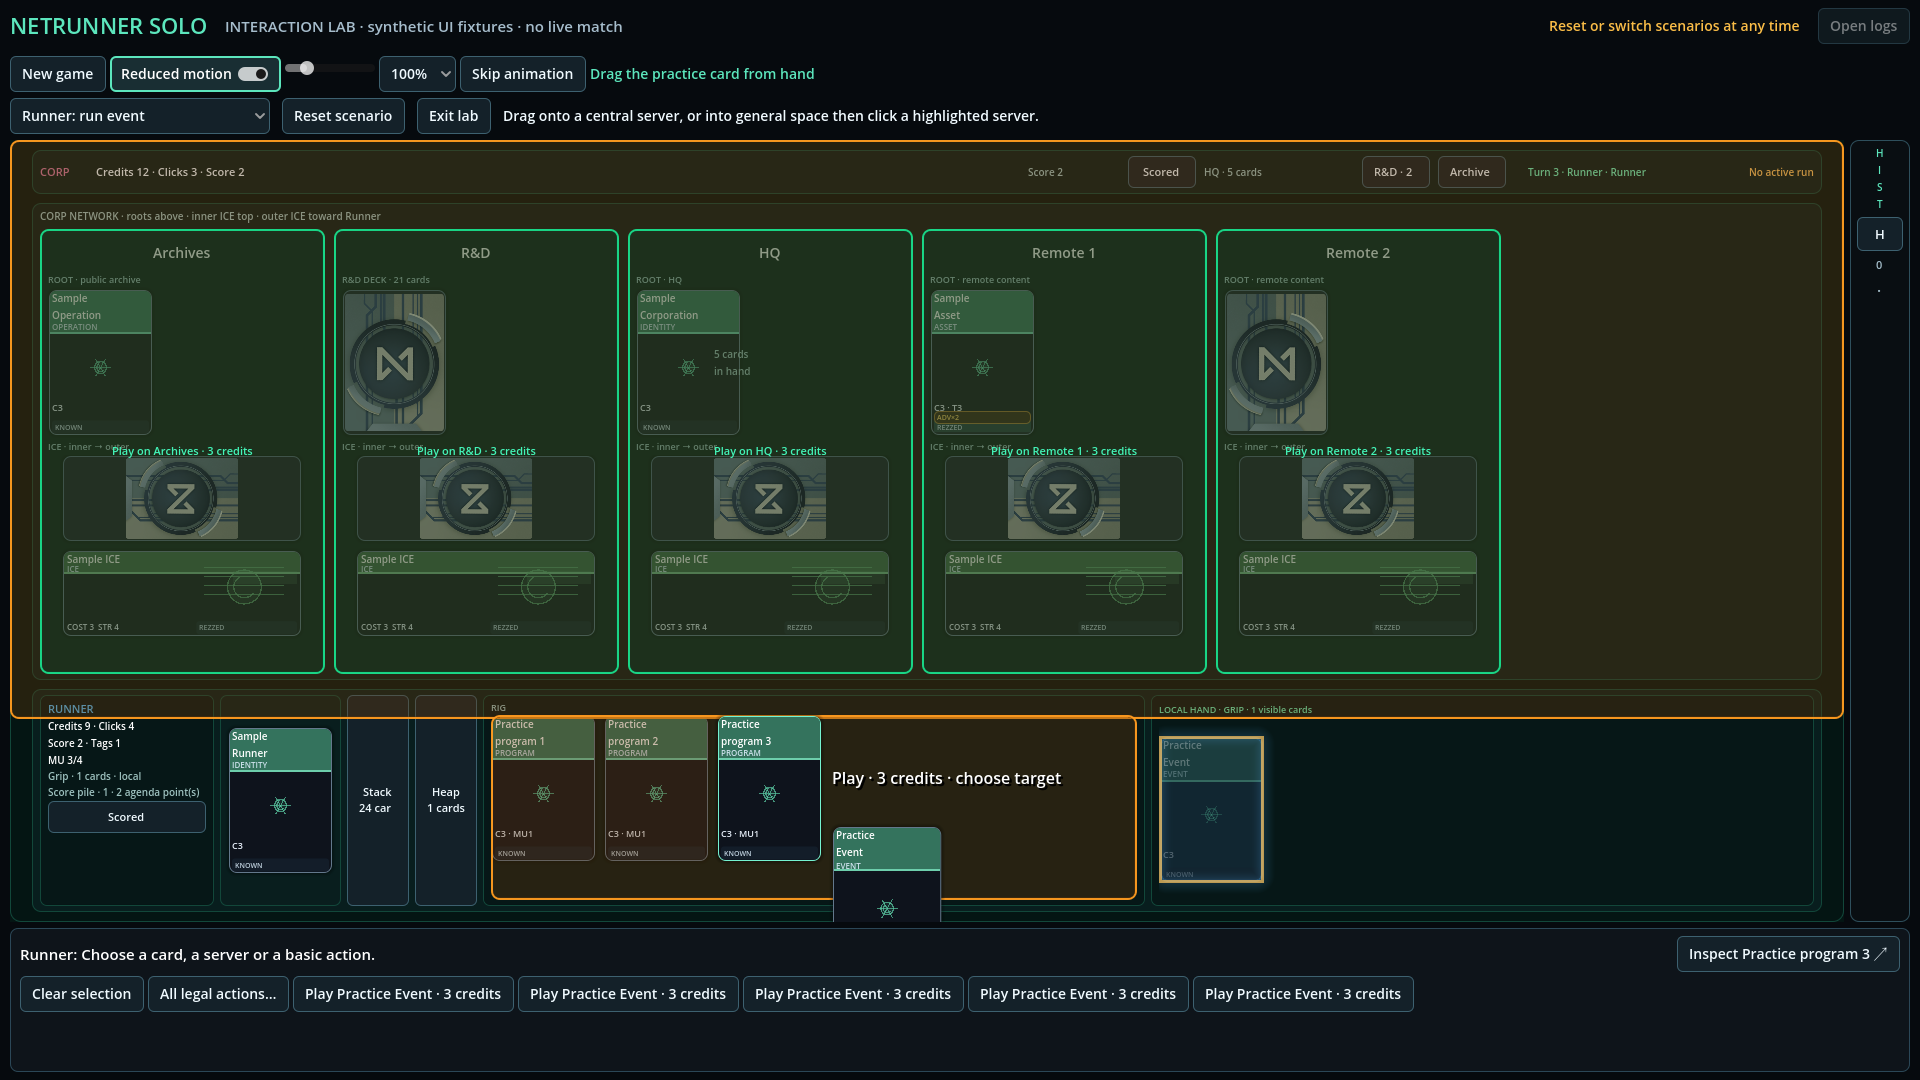
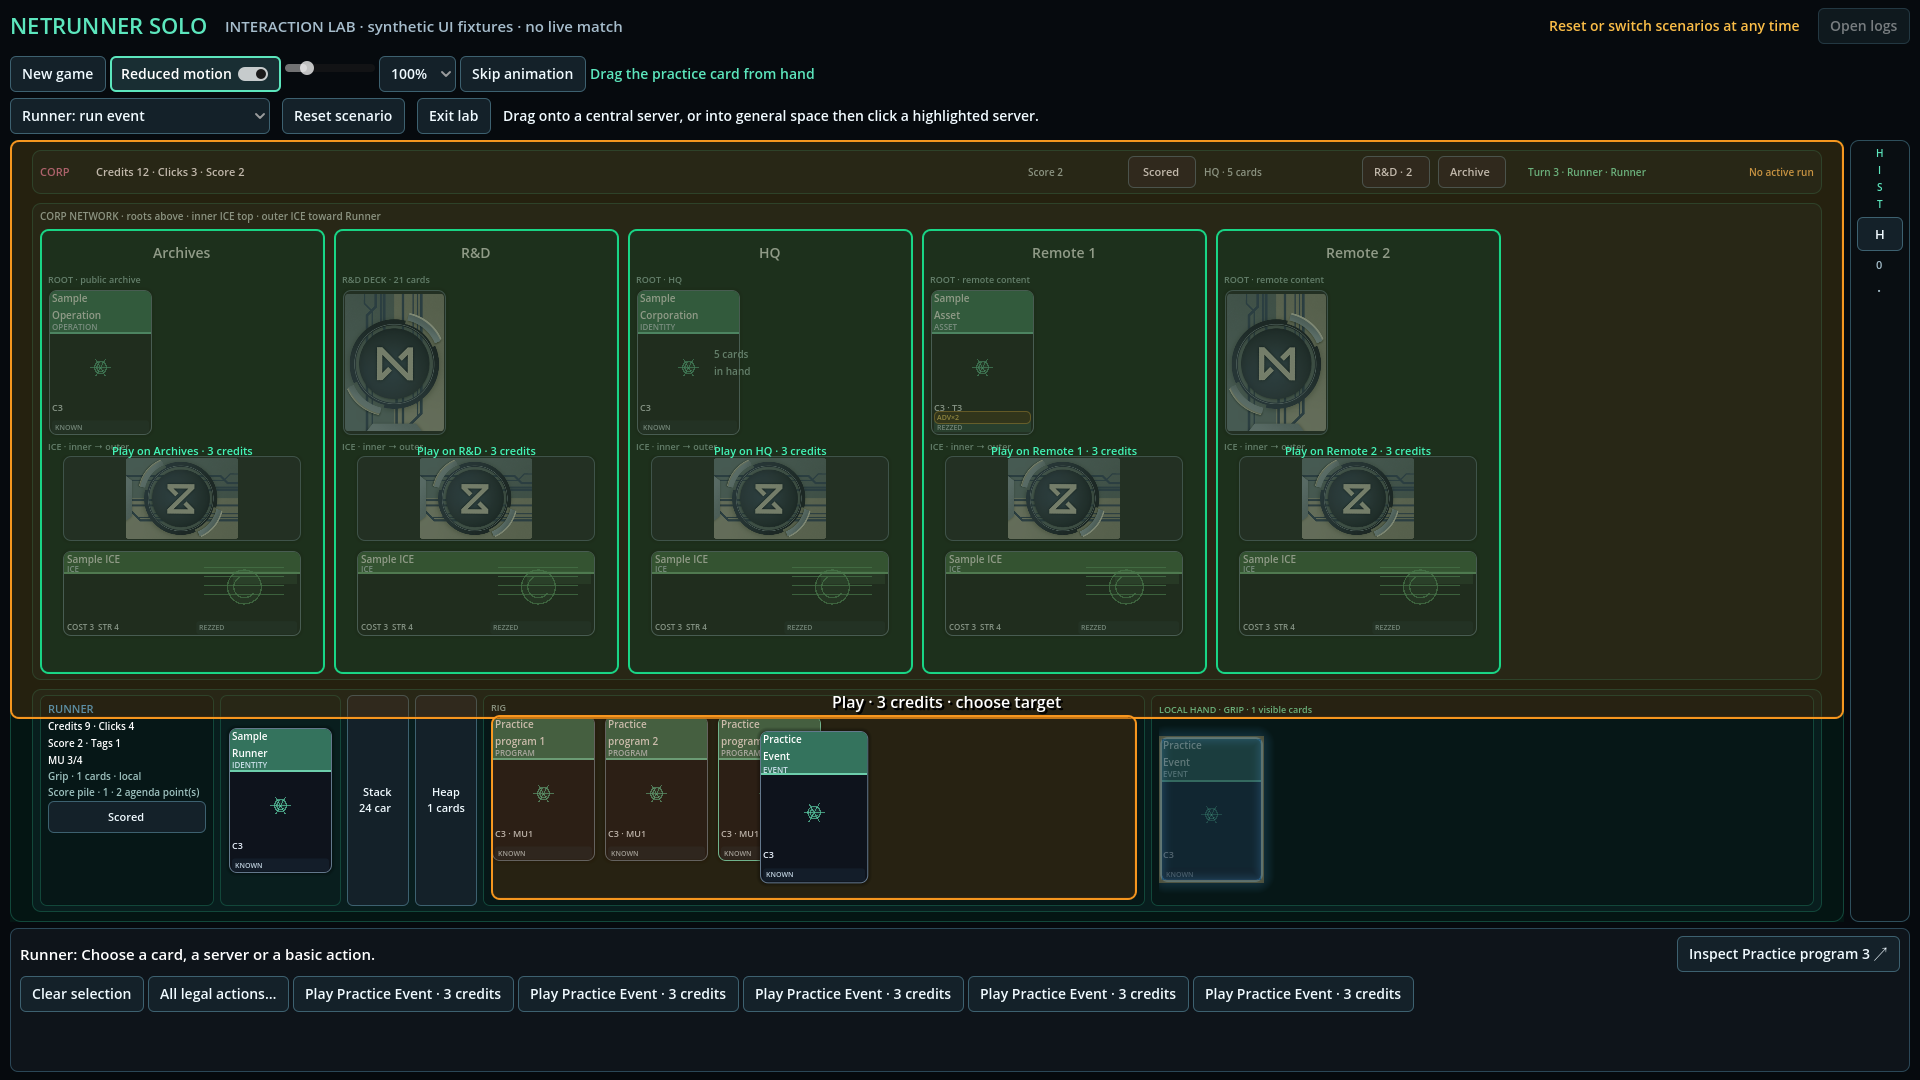
fix: center dragged cards and smooth pointer following

Changed region(s): [[0.375, 0.6417, 0.5625, 0.8556]]

diff --git a/src/Netrunner.Godot/scenes/Main.InteractionSmoke.cs b/src/Netrunner.Godot/scenes/Main.InteractionSmoke.cs
@@ -32,6 +32,8 @@ public partial class Main
 					LabButton(start, true);
 					await LabPointer(start + new Vector2(0, -40));
 					RequireInteraction(_boardDrag!.IsDragging, $"Drag did not start for scenario {scenario}.");
+					RequireInteraction(_boardDrag.GetNode<TableCardControl>("DragPreview").GetGlobalRect().GetCenter()
+						.DistanceTo(start + new Vector2(0, -40)) < 0.1f, "Drag preview is not centered on the pointer.");
 					GetViewport().PushInput(new InputEventKey { Keycode = Key.Escape, Pressed = true });
 					LabButton(start, false);
 					await TableFrames(2);
@@ -139,7 +141,8 @@ public partial class Main
 			await TableFrames(3);
 			RequireInteraction(_labSubmissionCount == 1 && _currentSnapshot!.View.RunnerRig.Any(c => c.HostCardId == "card:hidden-host"),
 				"Drop onto an exposed face-down ICE position failed.");
-			GD.Print("M411_INTERACTION PASS scenarios=15 resolutions=2 drag=true cancel=true stale=true choices=true menu_fallback=true hidden_host=true focus_loss=true invalid_drop=true");
+			await CheckDragFollowing();
+			GD.Print("M411_INTERACTION PASS scenarios=15 resolutions=2 drag=true cancel=true stale=true choices=true menu_fallback=true hidden_host=true focus_loss=true invalid_drop=true centered=true smooth_follow=true");
 			GetTree().Quit();
 		}
 		catch (Exception error)
@@ -147,6 +150,59 @@ public partial class Main
 			GD.PrintErr($"M411_INTERACTION FAIL {error}");
 			GetTree().Quit(1);
 		}
+	}
+
+	private async Task CheckDragFollowing()
+	{
+		_labScenario = 0;
+		ResetInteractionLab();
+		await TableFrames(3);
+		Vector2 start = _gameTable.VisibleCards["lab-hand"].GetGlobalRect().GetCenter();
+		Vector2 parked = start + new Vector2(0, -40);
+		Vector2 target = parked + new Vector2(-180, -120);
+		await LabPointer(start); LabButton(start, true); await LabPointer(parked);
+		BoardDragController drag = _boardDrag!;
+		TableCardControl preview = drag.GetNode<TableCardControl>("DragPreview");
+		float savedSmoothing = drag.Appearance.FollowSmoothing;
+		drag.SetProcess(false);
+		try
+		{
+			Vector2? firstResult = null;
+			foreach (int fps in new[] { 60, 120 })
+			{
+				drag.ReducedMotion = true;
+				Move(parked); drag._Process(1.0 / fps);
+				RequireInteraction(preview.GetGlobalRect().GetCenter().DistanceTo(parked) < 0.1f, "Reduced motion did not center immediately.");
+				drag.ReducedMotion = false;
+				Move(target); drag._Process(1.0 / fps);
+				Vector2 center = preview.GetGlobalRect().GetCenter();
+				RequireInteraction(center.DistanceTo(parked) > 1 && center.DistanceTo(target) > 1
+					&& center.DistanceTo(target) < parked.DistanceTo(target), "Following jumped or moved away from the pointer.");
+				for (int step = 1; step < fps / 10; step++) drag._Process(1.0 / fps);
+				center = preview.GetGlobalRect().GetCenter();
+				RequireInteraction(center.DistanceTo(target) < 25, "Following is too slow to catch the pointer.");
+				if (firstResult is { } previous)
+					RequireInteraction(center.DistanceTo(previous) < 0.1f, "Following depends on frame rate.");
+				firstResult = center;
+			}
+			drag.Appearance.FollowSmoothing = 0;
+			Move(parked); drag._Process(1.0 / 60);
+			RequireInteraction(preview.GetGlobalRect().GetCenter().DistanceTo(parked) < 0.1f, "Zero smoothing did not track immediately.");
+			drag.Appearance.FollowSmoothing = savedSmoothing;
+			Move(target);
+			// Release before the next preview frame: the pointer, not the lagging
+			// card image, must determine where the action is dropped.
+			LabButton(target, false);
+			RequireInteraction(_labSubmissionCount == 1, "Smooth following changed drop hit testing.");
+		}
+		finally
+		{
+			drag.Appearance.FollowSmoothing = savedSmoothing;
+			drag.ReducedMotion = _reducedMotion.ButtonPressed;
+			drag.Cancel("smoke-cleanup", false);
+			drag.SetProcess(true);
+		}
+		void Move(Vector2 point) => GetViewport().PushInput(new InputEventMouseMotion { Position = point, GlobalPosition = point });
 	}
 
 	private async Task LabPointer(Vector2 point)

diff --git a/src/Netrunner.Godot/scenes/BoardDragController.cs b/src/Netrunner.Godot/scenes/BoardDragController.cs
@@ -136,14 +136,21 @@ public partial class BoardDragController : Control
 			Cancel("unavailable", false);
 		if (!IsDragging) return;
 		Board.ScrollDragEdges(_pointer, delta, Appearance.EdgeWidth, Appearance.ScrollSpeed);
-		RefreshGeometry();
+		RefreshGeometry(delta);
 	}
 
-	private void RefreshGeometry()
+	private void RefreshGeometry(double delta = 0)
 	{
 		if (_preview is null) return;
 		Vector2 pointer = _pointer;
-		_preview.GlobalPosition = pointer + new Vector2(18, 18);
+		Vector2 target = pointer - _preview.GetGlobalRect().Size * 0.5f;
+		// Exponential following feels the same at different frame rates. Start
+		// centered immediately; only subsequent pointer movement is smoothed.
+		float weight = ReducedMotion || Appearance.FollowSmoothing <= 0 || delta <= 0
+			? 1f : 1f - Mathf.Exp(-(float)delta / Appearance.FollowSmoothing);
+		_preview.GlobalPosition = _preview.GlobalPosition.Lerp(target, weight);
+		if (_preview.GlobalPosition.DistanceSquaredTo(target) < 0.01f)
+			_preview.GlobalPosition = target;
 		var hovered = HitDestination(pointer);
 		foreach (var (destination, panel, geometry) in _zones)
 		{
@@ -161,7 +168,7 @@ public partial class BoardDragController : Control
 		}
 		_hint.Text = hovered is null ? "Release here to return to hand · Esc cancels" : DestinationLabel(hovered);
 		_hint.GlobalPosition = new Vector2(Math.Clamp(pointer.X + 18, GlobalPosition.X, Math.Max(GlobalPosition.X, GetGlobalRect().End.X - 380)),
-			Math.Clamp(pointer.Y - 42, GlobalPosition.Y, Math.Max(GlobalPosition.Y, GetGlobalRect().End.Y - 40)));
+			Math.Clamp(target.Y - 40, GlobalPosition.Y, Math.Max(GlobalPosition.Y, GetGlobalRect().End.Y - 40)));
 	}
 
 	private BoardInteractionDestination? HitDestination(Vector2 point) => _zones

diff --git a/src/Netrunner.Godot/resources/DragAppearance.cs b/src/Netrunner.Godot/resources/DragAppearance.cs
@@ -14,6 +14,7 @@ public partial class DragAppearance : Resource
 {
 	private float _dragThreshold = 8.0f;
 	private float _previewScale = 1.05f;
+	private float _followSmoothing = 0.04f;
 	private float _returnDuration = 0.16f;
 	private float _edgeWidth = 36.0f;
 	private float _scrollSpeed = 600.0f;
@@ -35,6 +36,14 @@ public partial class DragAppearance : Resource
 	{
 		get => _previewScale;
 		set => SetFloat(ref _previewScale, Mathf.Clamp(value, 1.0f, 1.5f));
+	}
+
+	/// <summary>Pointer-follow smoothing in seconds; zero tracks immediately.</summary>
+	[Export(PropertyHint.Range, "0,0.2,0.005,suffix:s")]
+	public float FollowSmoothing
+	{
+		get => _followSmoothing;
+		set => SetFloat(ref _followSmoothing, Mathf.Clamp(value, 0.0f, 0.2f));
 	}
 
 	[Export(PropertyHint.Range, "0,1,0.01")]

diff --git a/docs/M4_11_UI_PROGRESS.md b/docs/M4_11_UI_PROGRESS.md
@@ -51,3 +51,16 @@ Run `make interaction-lab`, select each scenario, and reset freely. Also play a
 normal official match from each seat to assess target visibility, drag comfort,
 scrolling and the preserved menu fallback. Prior manual UI acceptance statuses
 remain unchanged; passing automated fixtures does not declare them complete.
+
+## 2026-09-12 — Centered, smooth dragging
+
+- Drag previews start centered on the pointer and follow movement smoothly,
+  above hovered board cards. Destination hit testing still uses the pointer.
+- Inspector setting `FollowSmoothing` defaults to 0.04 seconds; zero or Reduced
+  motion tracks immediately. The destination hint sits above the preview.
+- Build, formatting, and the full interaction smoke passed. Added checks cover
+  centering at both resolutions, equivalent following at 60/120 FPS, immediate
+  reduced-motion/zero-smoothing tracking, and drops while the image catches up.
+- Screenshots refreshed. One screenshot run emitted a Godot `SwapGCHandleForType`
+  exception while loading an action-button resource; a subsequent native run
+  passed without errors. Log: `/tmp/m411-follow-native.log`.

diff --git a/docs/UI_EDITOR_GUIDE.md b/docs/UI_EDITOR_GUIDE.md
@@ -139,3 +139,8 @@ duration, edge scrolling, and destination styles. Production scenes are
 `BoardDragController.tscn`, `DropDestination.tscn`, and `BoardChoicePanel.tscn`.
 Use the Remote Inspector for temporary live changes and the local resources for
 persistent edits.
+
+Dragged cards are centered on the pointer. `FollowSmoothing` controls how softly
+they follow movement (default 0.04 seconds; higher is softer, zero is immediate).
+Reduced motion also makes tracking immediate. Drop targets follow the pointer
+directly even while the preview is catching up.
